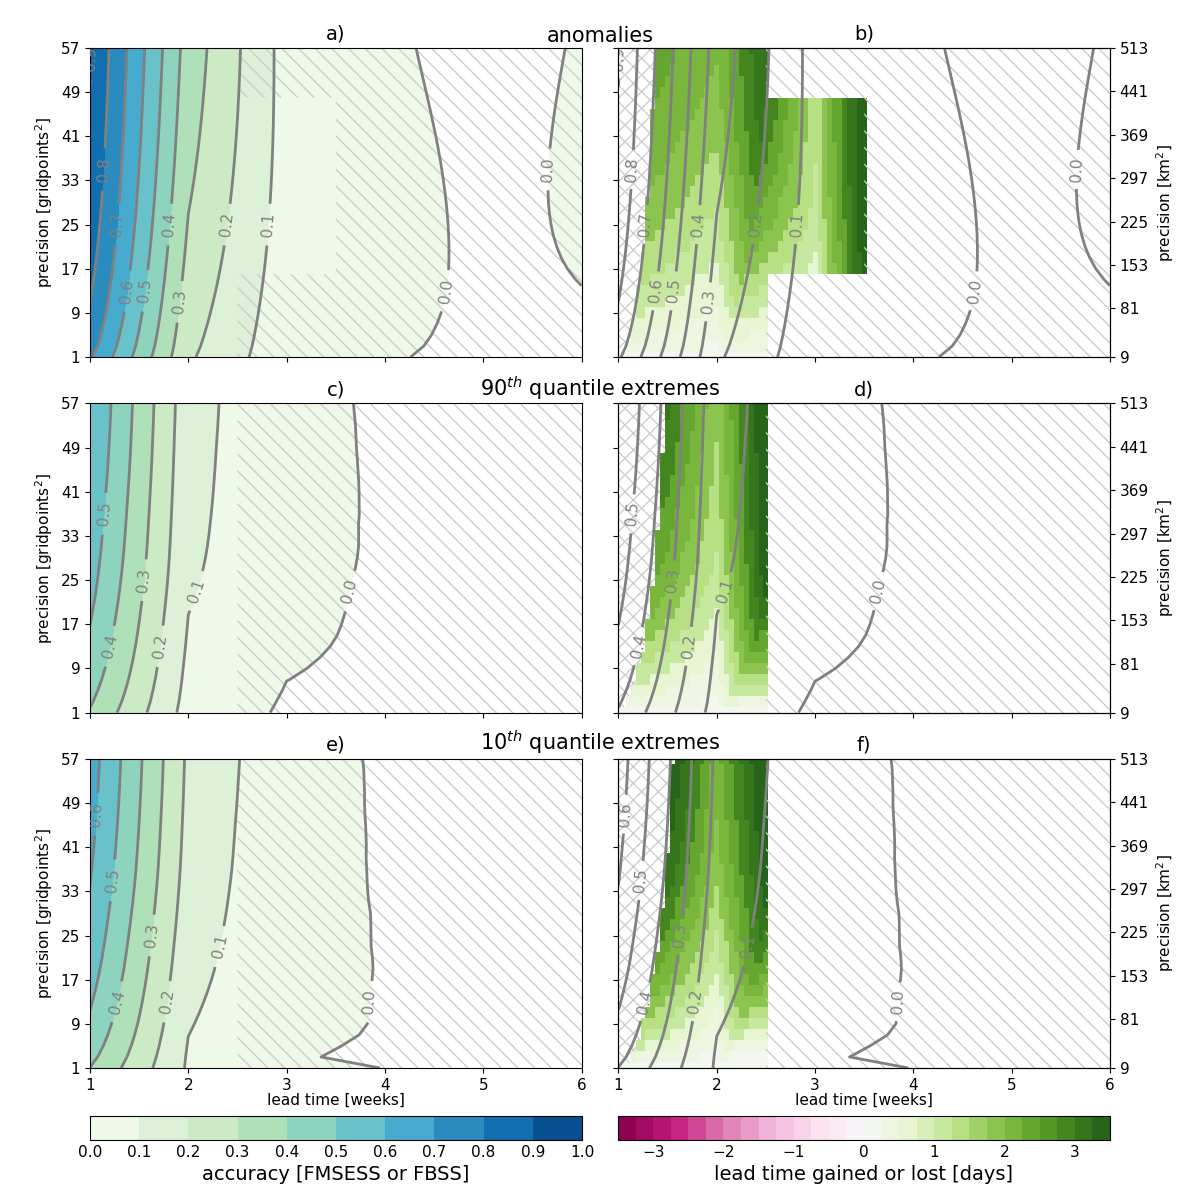
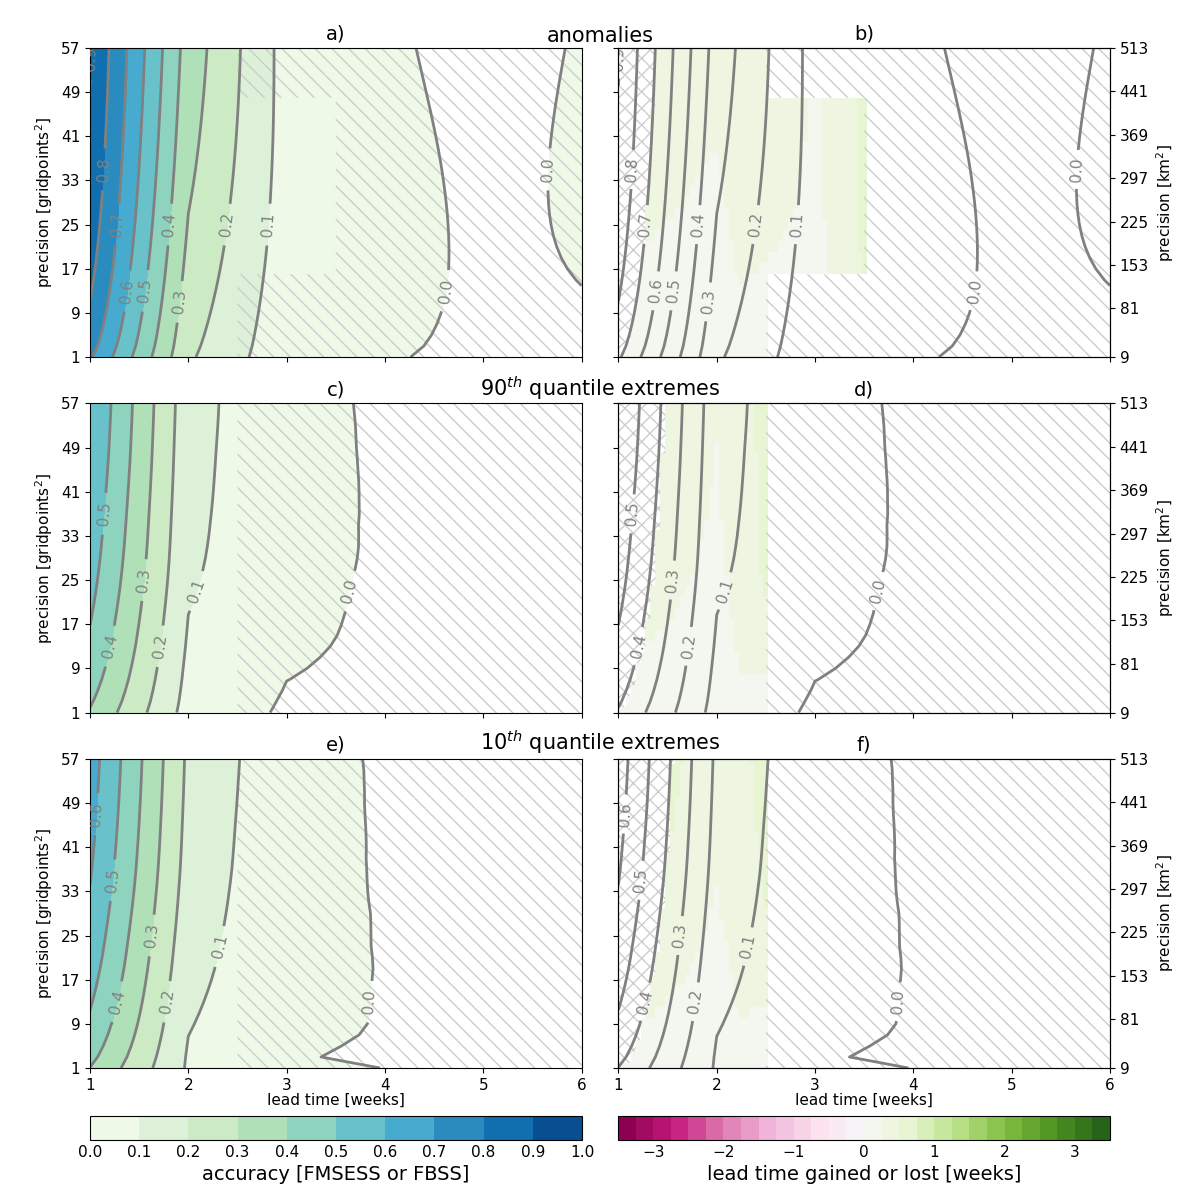
update

diff --git a/code/plot/plot-fig-03-new.py b/code/plot/plot-fig-03-new.py
@@ -73,9 +73,9 @@ ds2        = xr.open_dataset(path_in + filename_in_2)
 ds3        = xr.open_dataset(path_in + filename_in_3)
 
 # convert weekly lead_time_gained to units of days    
-ds1['lead_time_gained'] = ds1['lead_time_gained']*7
-ds2['lead_time_gained'] = ds2['lead_time_gained']*7
-ds3['lead_time_gained'] = ds3['lead_time_gained']*7
+#ds1['lead_time_gained'] = ds1['lead_time_gained']*7
+#ds2['lead_time_gained'] = ds2['lead_time_gained']*7
+#ds3['lead_time_gained'] = ds3['lead_time_gained']*7
 
 # plot 
 fontsize    = 11
@@ -113,7 +113,7 @@ cb1.ax.set_title('accuracy [FMSESS or FBSS]', fontsize=fontsize+3,y=-2)
 cb2_ax = fig.add_axes([0.515, 0.05, 0.41, 0.02])
 cb2    = fig.colorbar(p2, cax=cb2_ax, orientation='horizontal',ticks=clevs_ltg[2::4], pad=0.025)
 cb2.ax.tick_params(labelsize=fontsize, size=0)
-cb2.ax.set_title('lead time gained or lost [days]', fontsize=fontsize+3,y=-2)
+cb2.ax.set_title('lead time gained or lost [weeks]', fontsize=fontsize+3,y=-2)
 
 # write2file
 if write2file: plt.savefig(path_out + figname_out)
